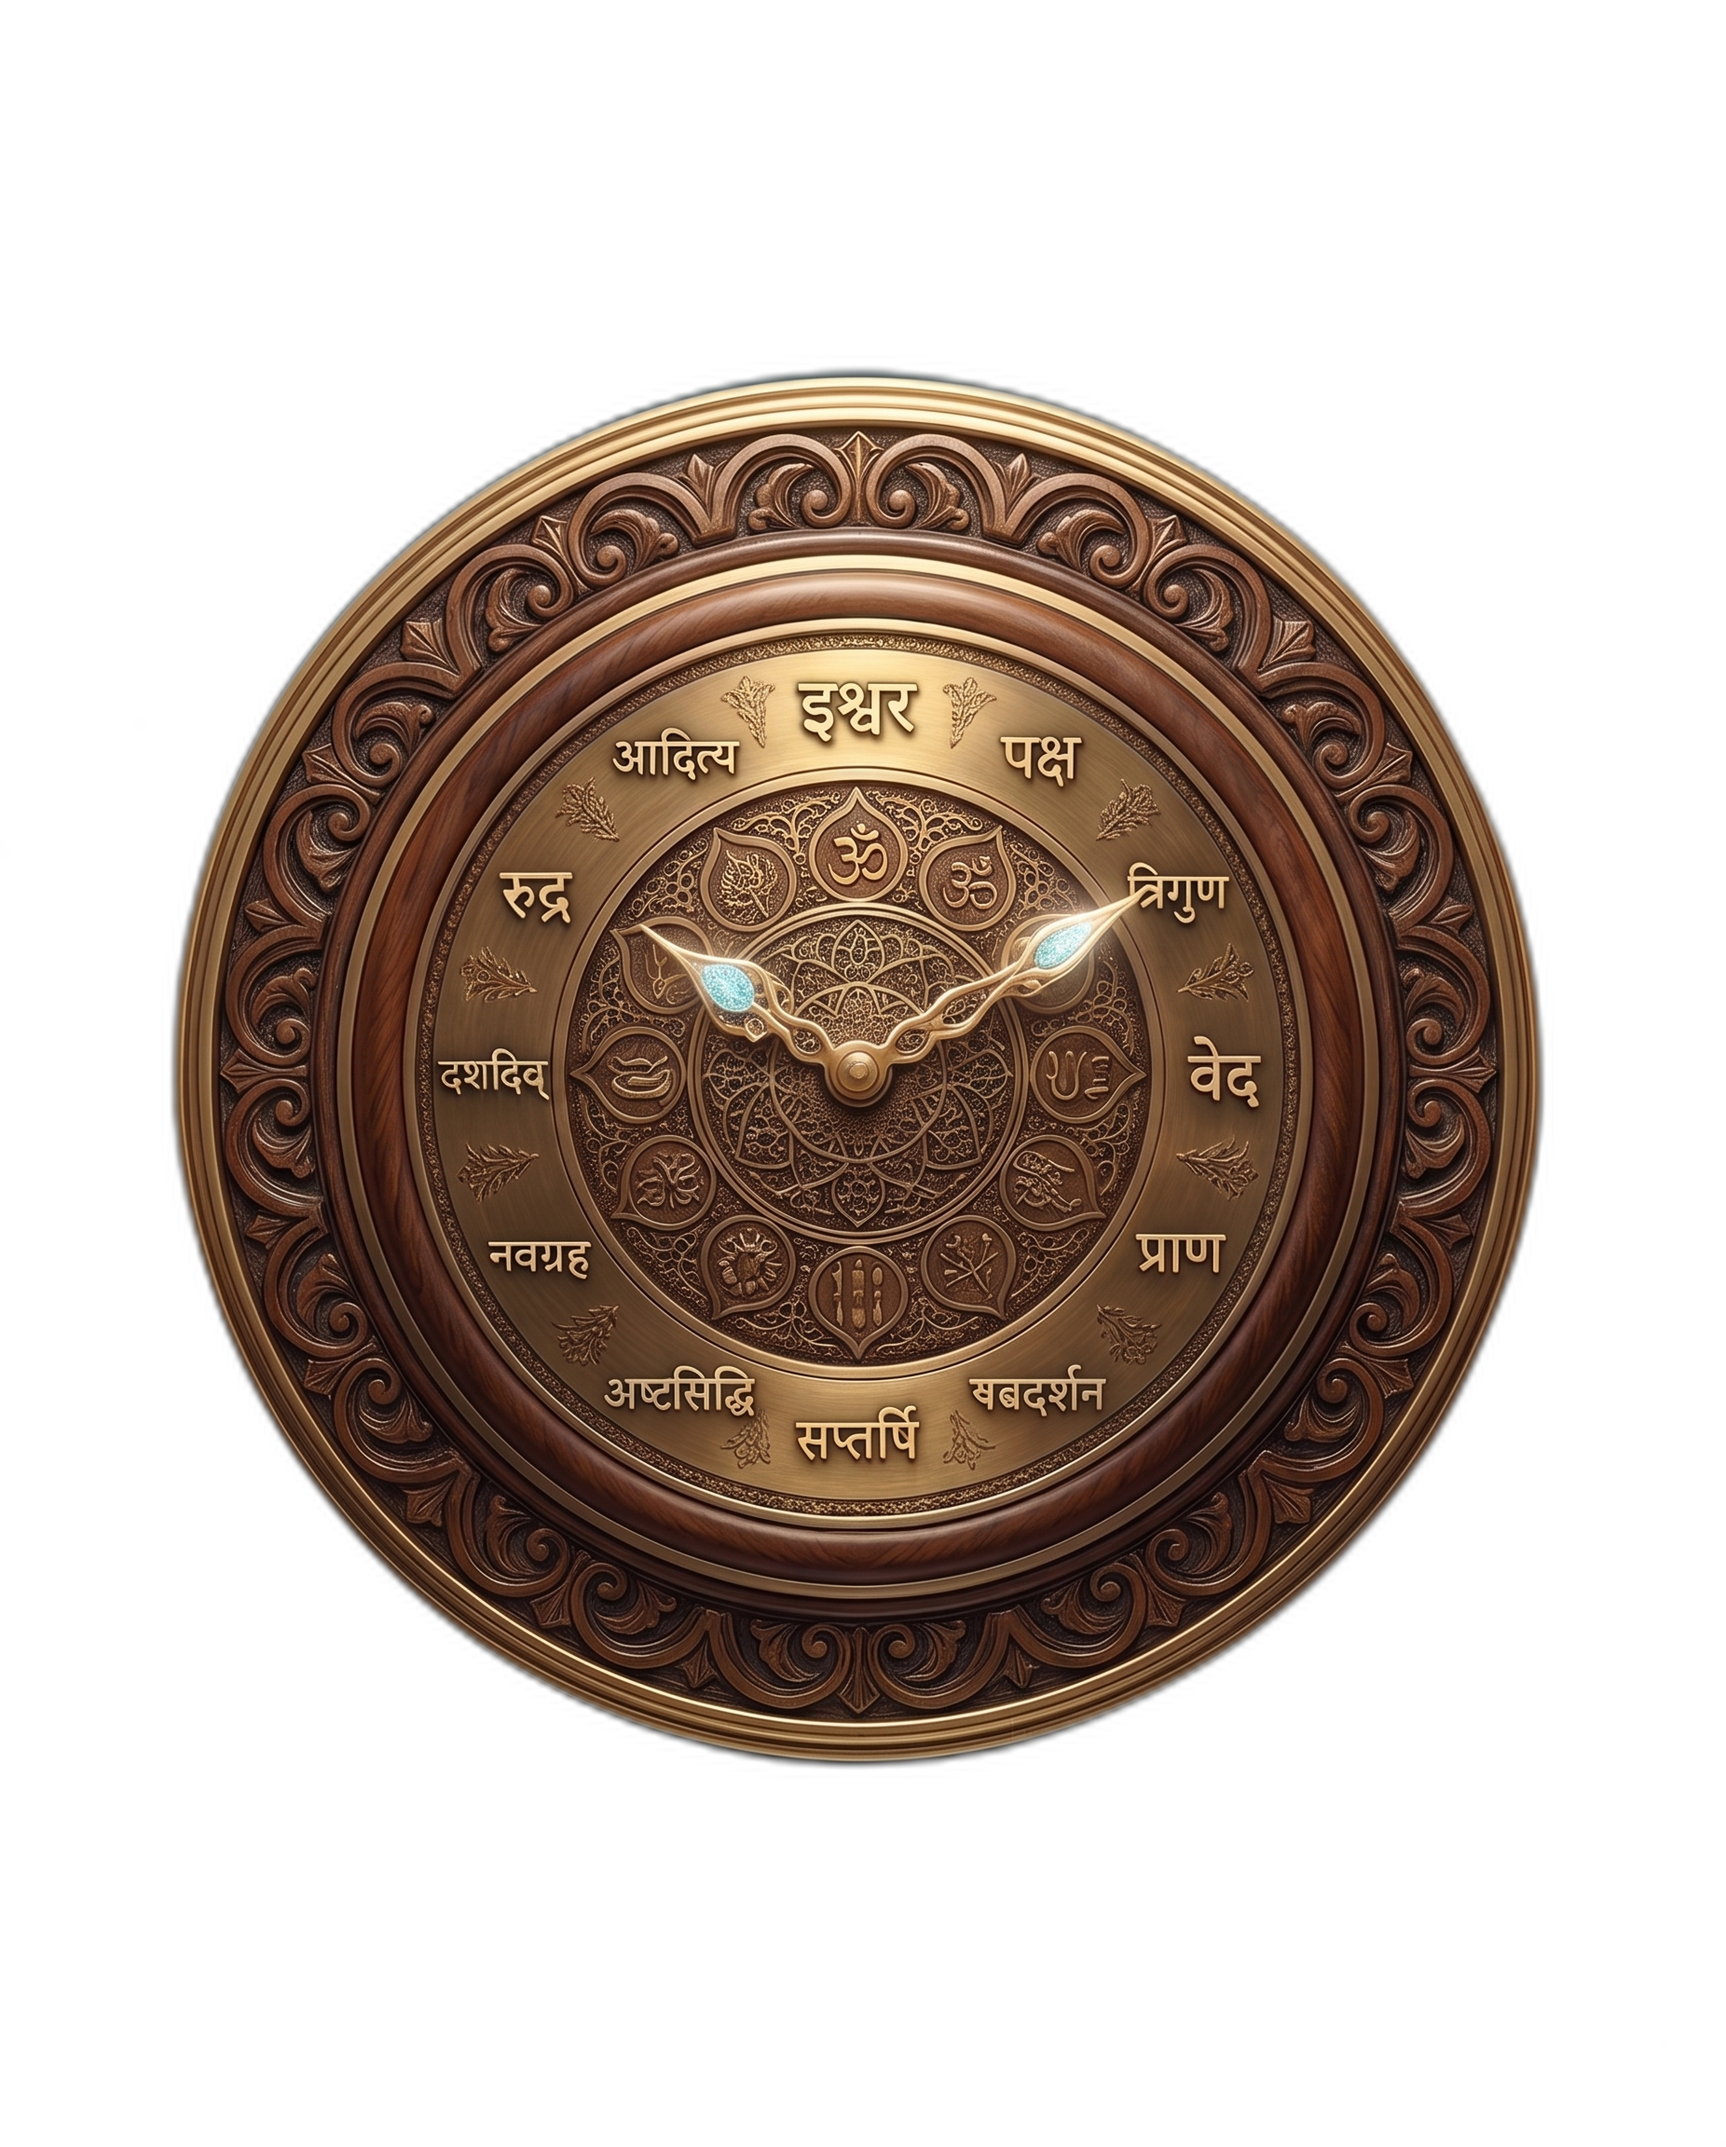
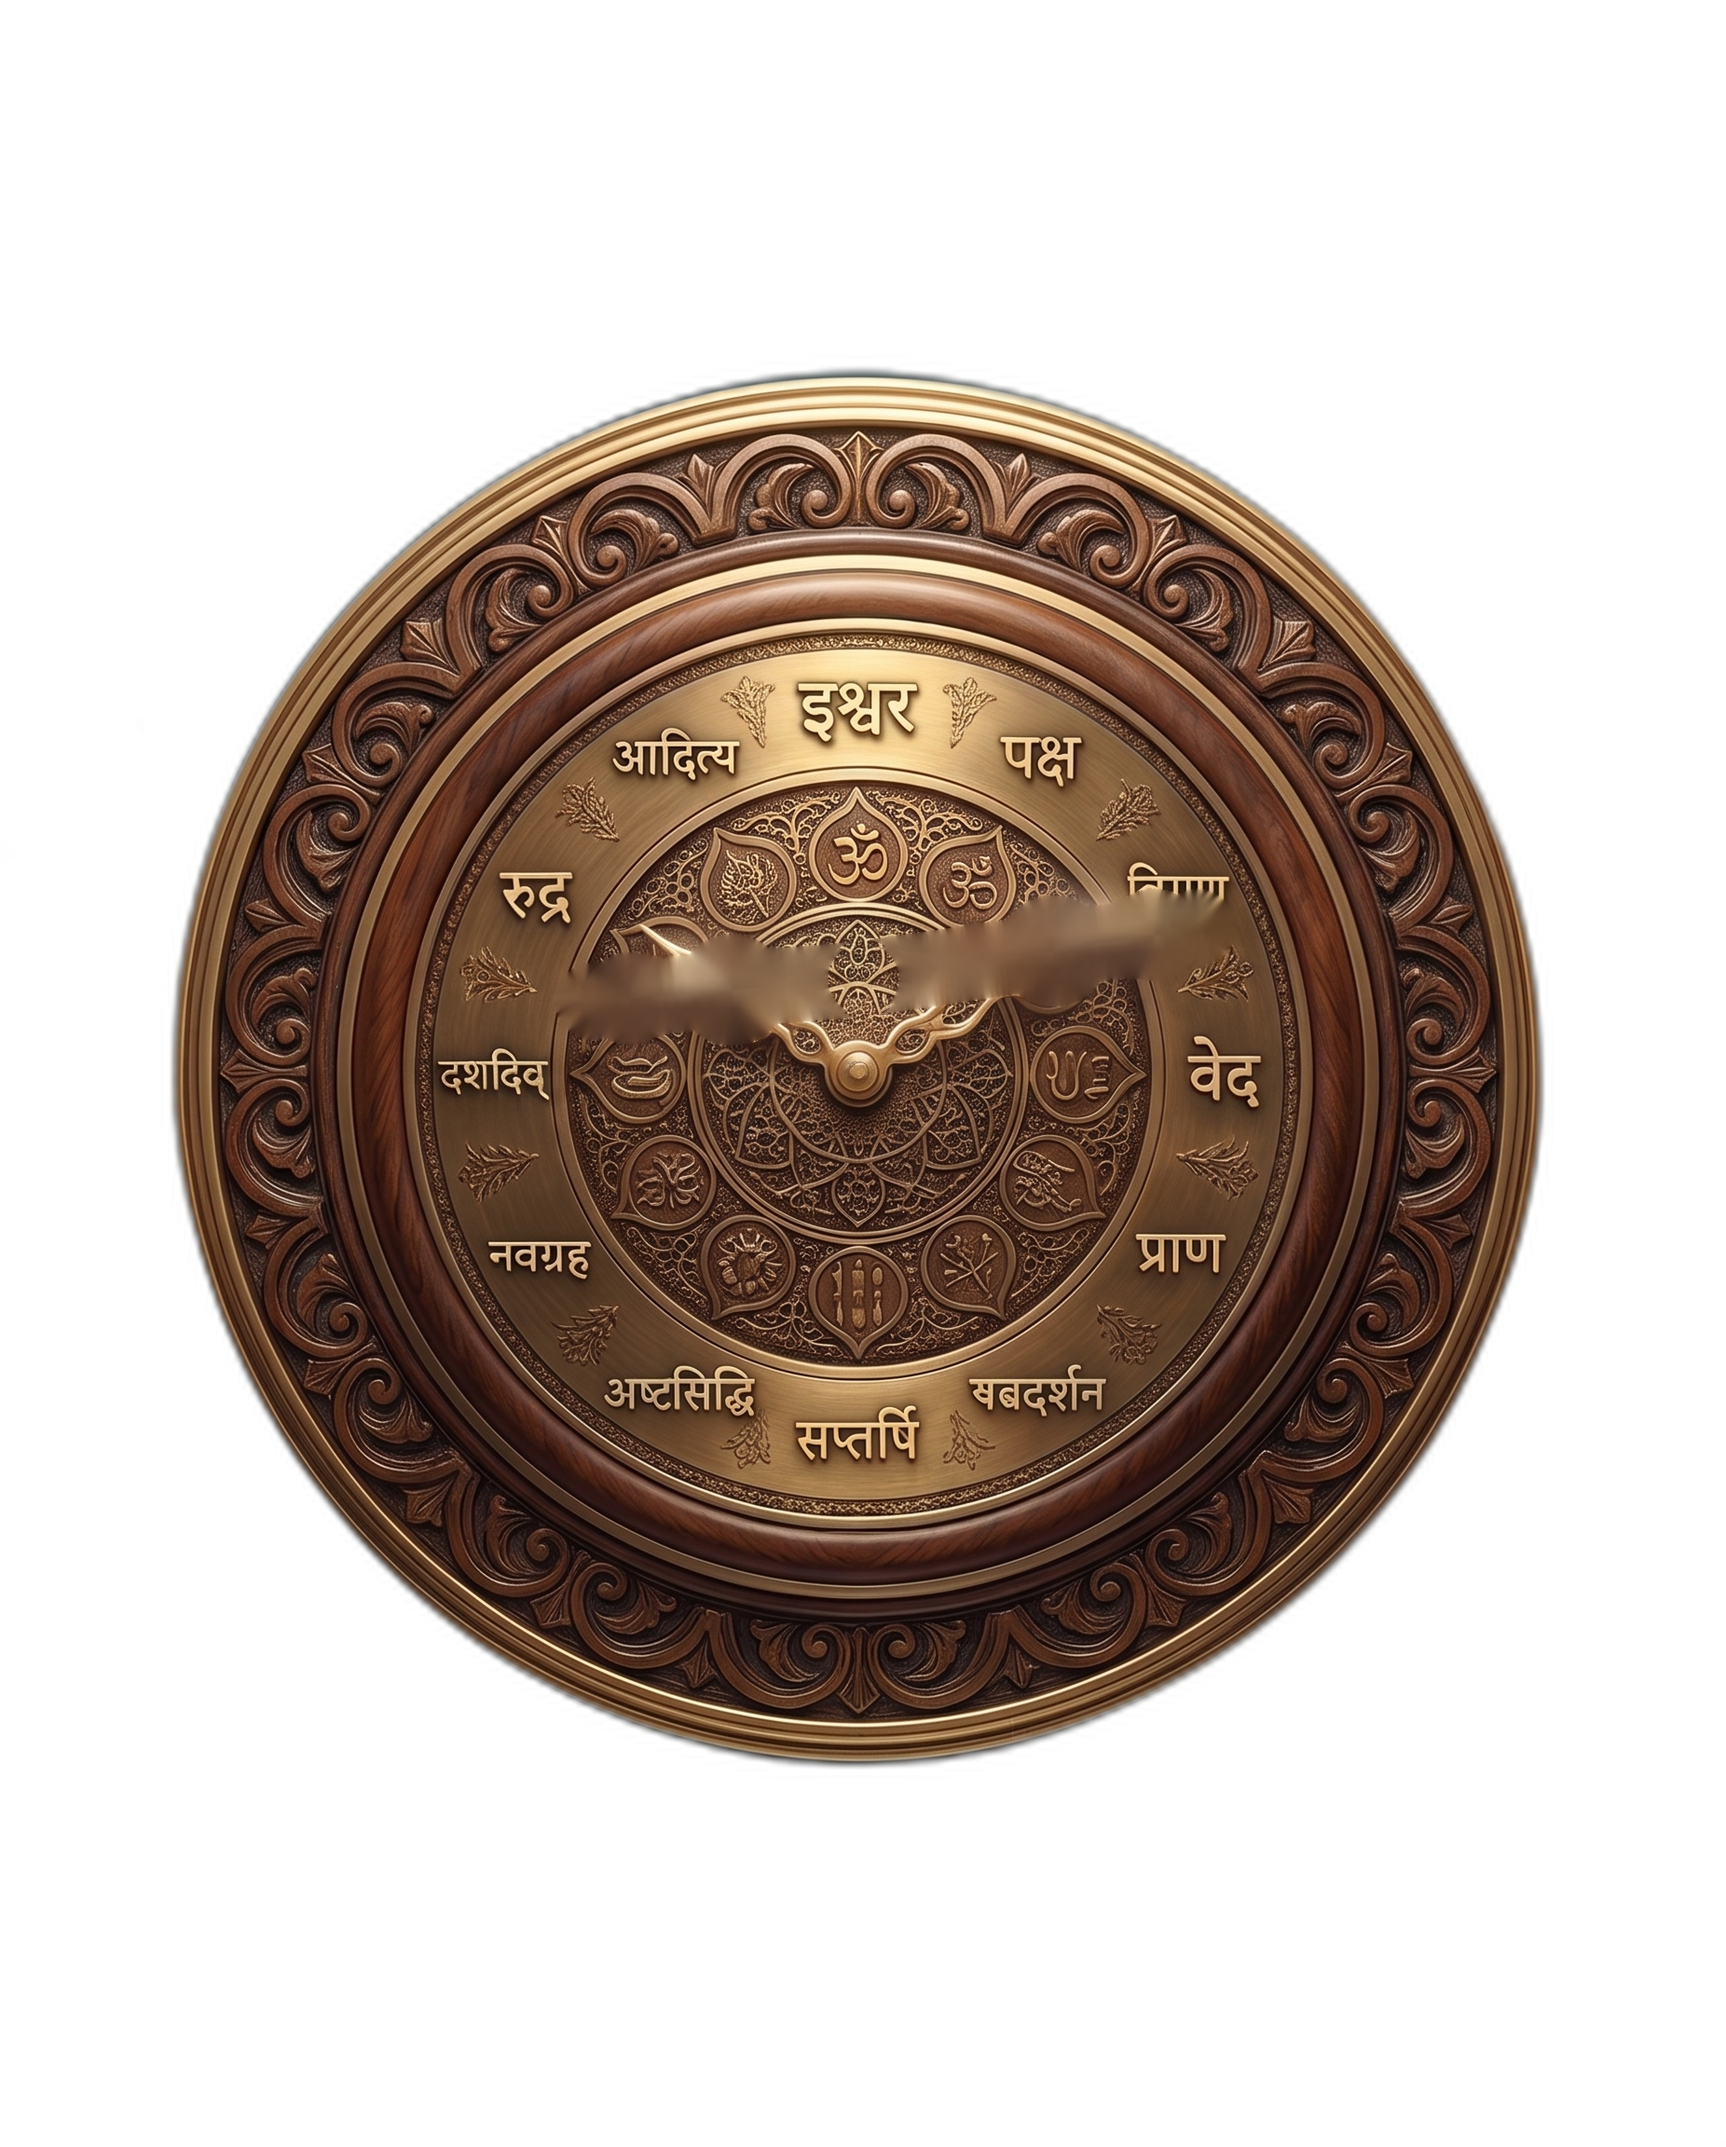
Redesign VedicClock: new Gemini image with transparent bg + animated hands
- Replace clock image with background-removed Gemini PNG (no dark teal bg)
- Remove static baked-in hands from clock image via OpenCV inpainting
- Add three animated SVG-style CSS hands (hour/minute/second) at full scale
- Add gold centre pin overlay; keep independent digital clock (Orbitron font)
- Restore W=190px clock size with tight gap (3px) above digital display

Changed region(s): [[0.3078, 0.4062, 0.7079, 0.5]]

diff --git a/frontend/src/components/VedicClock.jsx b/frontend/src/components/VedicClock.jsx
@@ -3,12 +3,12 @@ import React, { useState, useEffect } from 'react';
 const pad = n => String(n).padStart(2, '0');
 
 // Display size — image is 1852×2304 (portrait)
-const W = 120;
-const H = Math.round(W * 2304 / 1852); // 149
+const W = 190;
+const H = Math.round(W * 2304 / 1852); // 236
 
 // Clock-face centre (Om symbol) — same proportions as original image
-const CX = W * 0.50;  // 60
-const CY = H * 0.49;  // ~73
+const CX = W * 0.50;  // 95
+const CY = H * 0.49;  // ~116
 
 export default function VedicClock() {
   const [time, setTime] = useState(new Date());
@@ -47,31 +47,31 @@ export default function VedicClock() {
           {/* Hour hand */}
           <div style={{
             position: 'absolute', bottom: 0, left: 0,
-            width: 5, height: 27, marginLeft: -2.5,
+            width: 7, height: 42, marginLeft: -3.5,
             transformOrigin: 'bottom center',
             transform: `rotate(${degHr}deg)`,
             background: 'linear-gradient(to top, #c9a84c 55%, #ffffff 100%)',
             borderRadius: '3px 3px 1px 1px',
             clipPath: 'polygon(50% 0%,100% 18%,72% 100%,28% 100%,0% 18%)',
-            filter: 'drop-shadow(0 0 4px rgba(201,168,76,0.9))',
+            filter: 'drop-shadow(0 0 5px rgba(201,168,76,0.9))',
           }} />
 
           {/* Minute hand */}
           <div style={{
             position: 'absolute', bottom: 0, left: 0,
-            width: 3.5, height: 37, marginLeft: -1.75,
+            width: 5, height: 58, marginLeft: -2.5,
             transformOrigin: 'bottom center',
             transform: `rotate(${degMin}deg)`,
             background: 'linear-gradient(to top, #f0f0f0 55%, #a8ecf5 100%)',
             borderRadius: '2px 2px 1px 1px',
             clipPath: 'polygon(50% 0%,100% 14%,70% 100%,30% 100%,0% 14%)',
-            filter: 'drop-shadow(0 0 4px rgba(168,236,245,0.9))',
+            filter: 'drop-shadow(0 0 5px rgba(168,236,245,0.9))',
           }} />
 
           {/* Second hand */}
           <div style={{
             position: 'absolute', bottom: 0, left: 0,
-            width: 1, height: 41, marginLeft: -0.5,
+            width: 1.5, height: 65, marginLeft: -0.75,
             transformOrigin: 'bottom center',
             transform: `rotate(${degSec}deg)`,
             background: 'linear-gradient(to top, #ff6b00, #ffaa00)',
@@ -81,11 +81,11 @@ export default function VedicClock() {
           {/* Centre pin */}
           <div style={{
             position: 'absolute', top: 0, left: 0,
-            width: 8, height: 8,
+            width: 12, height: 12,
             transform: 'translate(-50%,-50%)',
             borderRadius: '50%',
             background: 'radial-gradient(circle, #fff 0%, #c9a84c 55%, #5a3e22 100%)',
-            boxShadow: '0 0 5px rgba(201,168,76,0.9)',
+            boxShadow: '0 0 6px rgba(201,168,76,0.9)',
             zIndex: 4,
           }} />
         </div>
